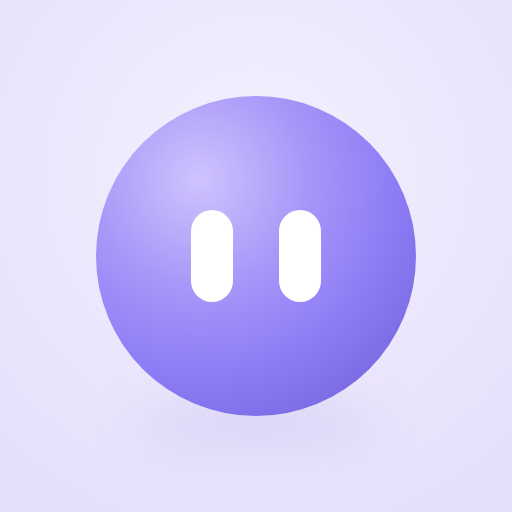
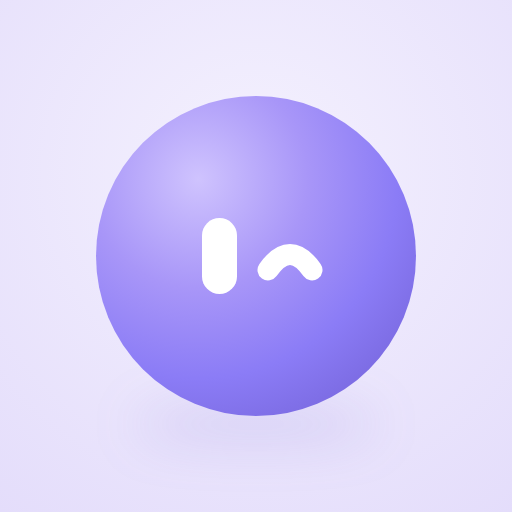
feat: 앱 이름을 '핑계콜' 로 바꾸고 런처 아이콘을 마스코트로
이름 — 프로젝트 폴더명 'ai_fake_call' 이 홈 화면과 스토어에 그대로
노출되고 있었다. '핑계콜' 로 바꾼다. 스토어 제목은 '핑계콜 - 가짜전화'.

경쟁 앱이 전부 "가짜전화", "가짜 전화 알리바이", "심플 가짜전화" 라 그
단어만으로는 구분이 안 되고, 빼면 검색에서 사라진다. 앞에 고유명, 뒤에
검색어를 붙였다. '핑계' 를 고른 건 이 앱이 파는 게 전화가 아니라 자리를
뜰 명분이기 때문이다 — 짧고, 일상어라 외우기 쉽고, 윙크하는 마스코트와도
맞는다. '탈출콜'/'비상콜' 은 과장이고 '알리바이' 는 이미 경쟁 앱이 쓴다.

아이콘 — Flutter 기본 아이콘을 마스코트로 교체한다. Android 5개 밀도,
iOS 15개 크기, Play 등록용 512 를 src/make_icons.py 로 뽑는다. CSS
그라데이션 + SVG 라 각 크기에서 새로 그려지므로 축소 뭉개짐이 없다.

아이콘은 윙크한 얼굴로 고정했다. 앱 안에서는 가끔만 윙크하지만 아이콘은
한 장뿐이라, 가장 이 앱다운 순간을 남기는 편이 눈에 들어온다. 피처
그래픽의 얼굴도 같이 맞췄다.

Claude-Session: https://claude.ai/code/session_01Xd13e87dZ3qLH2mDkvbXYi

Changed region(s): [[0.5, 0.4062, 0.625, 0.5938], [0.375, 0.4062, 0.4375, 0.5938], [0.4375, 0.4375, 0.4688, 0.5625]]

diff --git a/store/play/src/icon.html b/store/play/src/icon.html
@@ -1,15 +1,20 @@
-<!doctype html><html><head><meta charset="utf-8">
-<link rel="stylesheet" href="_orb.css">
-<style>
-  html,body { margin:0; padding:0; width:512px; height:512px; overflow:hidden; }
-  body {
-    background: radial-gradient(circle at 50% 34%, #F4F1FE 0%, #E4DDFB 100%);
-    display:flex; align-items:center; justify-content:center;
-  }
-  .orb {
-    width: 320px; height: 320px;
-    --eye-w: 42px; --eye-h: 92px; --eye-gap: 46px;
-    --shadow-blur: 26px;
-  }
-</style></head>
-<body><div class="orb"><div class="eyes"><div class="eye"></div><div class="eye"></div></div></div></body></html>
+<!doctype html><html><head><meta charset="utf-8"><style>
+  html,body { margin:0; padding:0; width:100vw; height:100vw; overflow:hidden; }
+  body { background: radial-gradient(circle at 50% 34%, #F4F1FE 0%, #E4DDFB 100%);
+         display:flex; align-items:center; justify-content:center; }
+  .orb { width:62.5vw; height:62.5vw; position:relative; border-radius:50%;
+    background: radial-gradient(circle at 32% 26%,
+      #CFC3FE 0%, #A896F8 34%, #8B7CF6 62%, #6D5BD0 100%); }
+  .orb::after { content:''; position:absolute; left:12%; right:12%; bottom:-7%;
+    height:9%; border-radius:50%; background:rgba(109,91,208,.22);
+    filter:blur(5vw); z-index:-1; }
+  svg { position:absolute; inset:0; }
+</style></head><body>
+  <!-- 앱 안에서는 가끔 윙크하지만, 아이콘은 한 장이라 가장 이 앱다운
+       순간(윙크)을 고정해 둔다. -->
+  <div class="orb"><svg viewBox="0 0 320 320">
+    <rect x="106" y="122" width="35" height="76" rx="17.5" fill="#fff"/>
+    <path d="M172 174 q22 -31 44 0" stroke="#fff" stroke-width="21"
+          stroke-linecap="round" fill="none"/>
+  </svg></div>
+</body></html>

diff --git a/lib/app.dart b/lib/app.dart
@@ -10,7 +10,7 @@ class AiFakeCallApp extends StatelessWidget {
   @override
   Widget build(BuildContext context) {
     return MaterialApp.router(
-      title: 'AI Fake Call',
+      title: '핑계콜',
       debugShowCheckedModeBanner: false,
       theme: AppTheme.dark,
       darkTheme: AppTheme.dark,

diff --git a/store/play/src/make_icons.py b/store/play/src/make_icons.py
@@ -1,0 +1,57 @@
+#!/usr/bin/env python3
+"""마스코트 아이콘을 각 플랫폼이 요구하는 크기로 내보낸다.
+
+icon.html 을 headless Chrome 으로 창 크기만 바꿔가며 렌더한다. 벡터(CSS
+그라데이션 + SVG)라 어느 크기에서도 다시 그려지므로, 큰 이미지를 축소할
+때 생기는 뭉개짐이 없다.
+
+사용법:  python3 make_icons.py
+"""
+import subprocess
+from pathlib import Path
+
+SRC = Path(__file__).resolve().parent
+ROOT = SRC.parents[2]                      # 프로젝트 루트
+CHROME = "/Applications/Google Chrome.app/Contents/MacOS/Google Chrome"
+
+ANDROID = {                                # 밀도별 런처 아이콘
+    "mdpi": 48, "hdpi": 72, "xhdpi": 96, "xxhdpi": 144, "xxxhdpi": 192,
+}
+IOS = {                                    # Contents.json 이 참조하는 파일명
+    "Icon-App-20x20@1x.png": 20, "Icon-App-20x20@2x.png": 40,
+    "Icon-App-20x20@3x.png": 60, "Icon-App-29x29@1x.png": 29,
+    "Icon-App-29x29@2x.png": 58, "Icon-App-29x29@3x.png": 87,
+    "Icon-App-40x40@1x.png": 40, "Icon-App-40x40@2x.png": 80,
+    "Icon-App-40x40@3x.png": 120, "Icon-App-60x60@2x.png": 120,
+    "Icon-App-60x60@3x.png": 180, "Icon-App-76x76@1x.png": 76,
+    "Icon-App-76x76@2x.png": 152, "Icon-App-83.5x83.5@2x.png": 167,
+    "Icon-App-1024x1024@1x.png": 1024,
+}
+
+
+def render(out: Path, size: int) -> None:
+    out.parent.mkdir(parents=True, exist_ok=True)
+    subprocess.run(
+        [CHROME, "--headless", "--disable-gpu", "--hide-scrollbars",
+         "--force-device-scale-factor=1", "--allow-file-access-from-files",
+         "--virtual-time-budget=3000",
+         f"--screenshot={out}", f"--window-size={size},{size}",
+         f"file://{SRC / 'icon.html'}"],
+        capture_output=True, check=False,
+    )
+    assert out.exists(), f"렌더 실패: {out}"
+
+
+def main() -> None:
+    for density, size in ANDROID.items():
+        render(ROOT / f"android/app/src/main/res/mipmap-{density}/ic_launcher.png",
+               size)
+    ios_dir = ROOT / "ios/Runner/Assets.xcassets/AppIcon.appiconset"
+    for name, size in IOS.items():
+        render(ios_dir / name, size)
+    render(SRC.parent / "icon-512.png", 512)   # Play 스토어 등록용
+    print(f"  Android {len(ANDROID)}개, iOS {len(IOS)}개, 스토어 1개 생성")
+
+
+if __name__ == "__main__":
+    main()

diff --git a/store/play/src/build.py b/store/play/src/build.py
@@ -99,7 +99,11 @@ FEATURE_HTML = f"""<!doctype html><html><head><meta charset="utf-8">
     <p>정해둔 시간에 걸려오는 전화</p>
   </div>
   <div class="art">
-    <div class="orb"><div class="eyes"><div class="eye"></div><div class="eye"></div></div></div>
+    <div class="orb"><svg viewBox="0 0 320 320" style="position:absolute;inset:0">
+      <rect x="106" y="122" width="35" height="76" rx="17.5" fill="#fff"/>
+      <path d="M172 174 q22 -31 44 0" stroke="#fff" stroke-width="21"
+            stroke-linecap="round" fill="none"/>
+    </svg></div>
   </div>
 </div></body></html>"""
 
